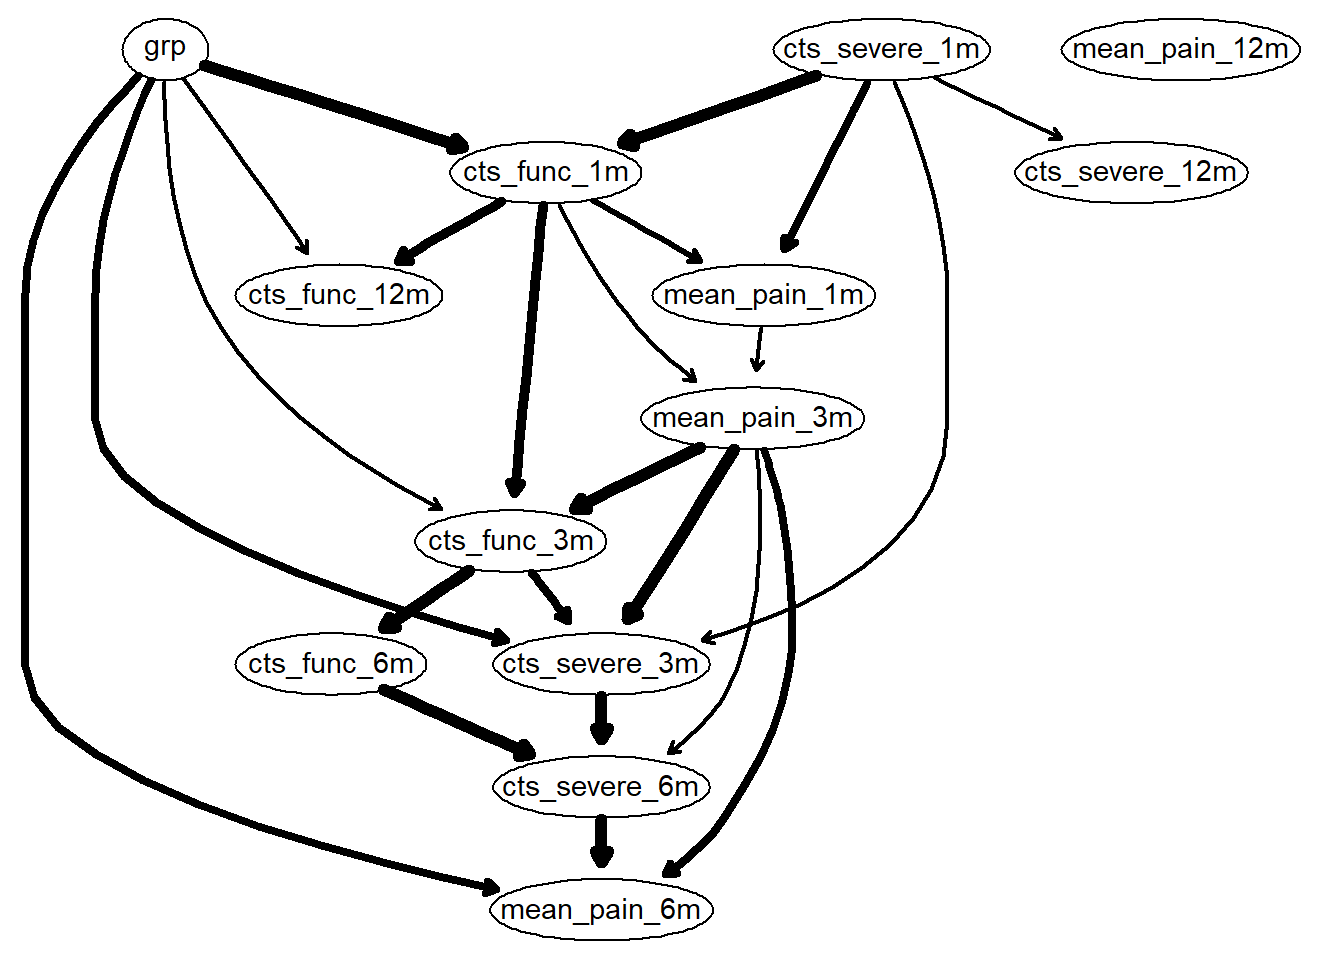
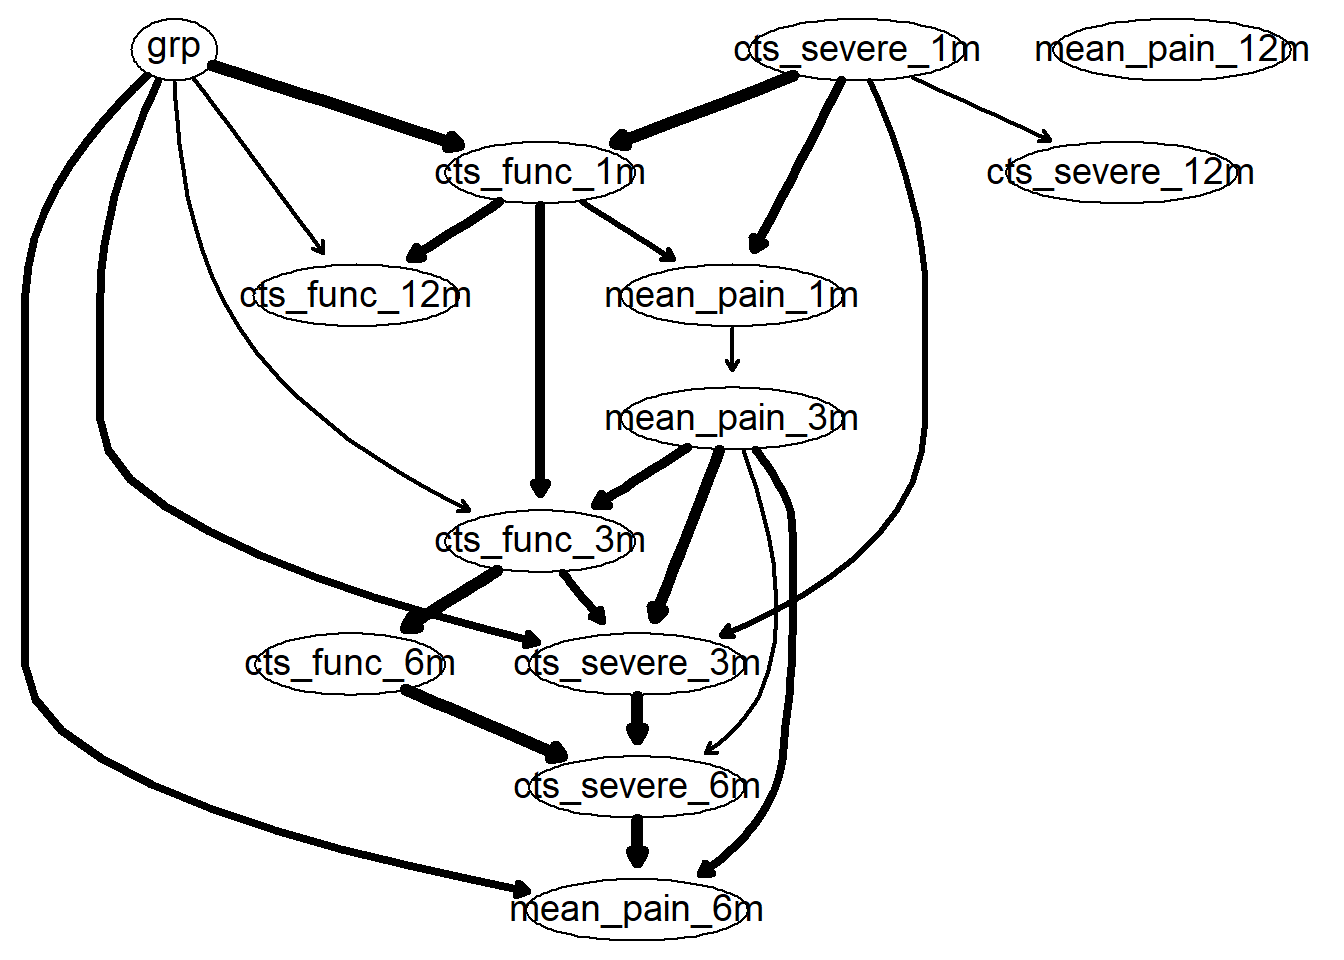
Build site.

diff --git a/docs/2-bn_analysis.html b/docs/2-bn_analysis.html
@@ -405,7 +405,7 @@ div.tocify {
 <div class="tab-content">
 <div id="summary" class="tab-pane fade in active">
 <p>
-<strong>Last updated:</strong> 2020-10-26
+<strong>Last updated:</strong> 2020-11-23
 </p>
 <p>
 <strong>Checks:</strong> <span class="glyphicon glyphicon-ok text-success" aria-hidden="true"></span> 7 <span class="glyphicon glyphicon-exclamation-sign text-danger" aria-hidden="true"></span> 0
@@ -496,16 +496,16 @@ This reproducible <a href="http://rmarkdown.rstudio.com">R Markdown</a> analysis
 <div class="panel panel-default">
 <div class="panel-heading">
 <p class="panel-title">
-<a data-toggle="collapse" data-parent="#workflowr-checks" href="#strongRepositoryversionstrongahrefhttpsgithubcombernardliew2020ctsbntreefe17d91bd35857ea56432f9212ddaa0c3512d9bbtargetblankfe17d91a"> <span class="glyphicon glyphicon-ok text-success" aria-hidden="true"></span> <strong>Repository version:</strong> <a href="https://github.com/bernard-liew/2020_cts_bn/tree/fe17d91bd35857ea56432f9212ddaa0c3512d9bb" target="_blank">fe17d91</a> </a>
+<a data-toggle="collapse" data-parent="#workflowr-checks" href="#strongRepositoryversionstrongahrefhttpsgithubcombernardliew2020ctsbntree2266d36d7d5eafec7453ccb12ce7d6471a15e6cftargetblank2266d36a"> <span class="glyphicon glyphicon-ok text-success" aria-hidden="true"></span> <strong>Repository version:</strong> <a href="https://github.com/bernard-liew/2020_cts_bn/tree/2266d36d7d5eafec7453ccb12ce7d6471a15e6cf" target="_blank">2266d36</a> </a>
 </p>
 </div>
[2 lines of base64/hex data omitted]
 <div class="panel-body">
 <p>
 Great! You are using Git for version control. Tracking code development and connecting the code version to the results is critical for reproducibility.
 </p>
 <p>
-The results in this page were generated with repository version <a href="https://github.com/bernard-liew/2020_cts_bn/tree/fe17d91bd35857ea56432f9212ddaa0c3512d9bb" target="_blank">fe17d91</a>. See the <em>Past versions</em> tab to see a history of the changes made to the R Markdown and HTML files.
+The results in this page were generated with repository version <a href="https://github.com/bernard-liew/2020_cts_bn/tree/2266d36d7d5eafec7453ccb12ce7d6471a15e6cf" target="_blank">2266d36</a>. See the <em>Past versions</em> tab to see a history of the changes made to the R Markdown and HTML files.
 </p>
 <p>
 Note that you need to be careful to ensure that all relevant files for the analysis have been committed to Git prior to generating the results (you can use <code>wflow_publish</code> or <code>wflow_git_commit</code>). workflowr only checks the R Markdown file, but you know if there are other scripts or data files that it depends on. Below is the status of the Git repository when the results were generated:
@@ -514,21 +514,6 @@ Note that you need to be careful to ensure that all relevant files for the analy
 Ignored files:
     Ignored:    .Rhistory
     Ignored:    .Rproj.user/
-
-Untracked files:
-    Untracked:  analysis/3-report.Rmd
-    Untracked:  data/cts_dat.sav
-    Untracked:  data/cts_dat.xlsx
-    Untracked:  data/cts_dat2.sav
-    Untracked:  data/cts_dat_mod.xlsx
-    Untracked:  output/dat.RDS
-    Untracked:  output/report.html
-
-Unstaged changes:
-    Deleted:    .Rprofile
-    Deleted:    .gitattributes
-    Modified:   .gitignore
-    Modified:   analysis/index.Rmd
 
 </code></pre>
 <p>
@@ -567,6 +552,40 @@ Message
 </tr>
 </thead>
 <tbody>
+<tr>
+<td>
+Rmd
+</td>
+<td>
+<a href="https://github.com/bernard-liew/2020_cts_bn/blob/2266d36d7d5eafec7453ccb12ce7d6471a15e6cf/analysis/2-bn_analysis.Rmd" target="_blank">2266d36</a>
+</td>
+<td>
+bernard-liew
+</td>
+<td>
+2020-11-23
+</td>
+<td>
+added explanation to graphs
+</td>
+</tr>
+<tr>
+<td>
+html
+</td>
+<td>
+<a href="https://rawcdn.githack.com/bernard-liew/2020_cts_bn/a6948cef9bf5a83d69fa576e28eb925bf6f8d32f/docs/2-bn_analysis.html" target="_blank">a6948ce</a>
+</td>
+<td>
+bernard-liew
+</td>
+<td>
+2020-10-26
+</td>
+<td>
+initial analysis
+</td>
+</tr>
 <tr>
 <td>
 Rmd
@@ -670,94 +689,83 @@ bl &lt;- anti_join(pair_var, tiers_keep, by = &quot;rowname&quot;)  %&gt;%
 </div>
 <div id="build-the-final-model-using-model-averaging" class="section level4">
 <h4>Build the final model using model averaging</h4>
-<pre class="r"><code>boot &lt;- boot.strength(df.bn,
+<pre class="r"><code>set.seed (123)
+boot &lt;- boot.strength(df.bn,
                       R = 200,
                       algorithm = &quot;hc&quot;,
                       algorithm.args = list (blacklist = bl))</code></pre>
 </div>
 <div id="get-averaged-model" class="section level4">
 <h4>Get averaged model</h4>
+<p>“Underneath” the model is a complex mathematical relationship between each variables.The figure is meant to illustrate a complex model simply. Interpretation of a Bayesian Network model should be natural, the arrows reflect the direction of relationship. Example, <code>grp</code> influences <code>cts_func_12m</code> partly by <code>cts_func_1m</code> and partly directly. The thickness of the arrows reflect how common one would expect to find such a relationship should many separate experiments be collected. Whether the arrows reflect causal relationships really depend if we think these variables represent an exhaustive list of plausible biological causes. In this case, I do not think we can say it is causal, but we can certainly understand a complex relationship driving recovery.</p>
 <pre class="r"><code>avg &lt;-  averaged.network(boot, threshold = 0.5)
 fit &lt;-  bn.fit (avg, df.bn, method = &quot;mle&quot;)
-g &lt;- strength.plot(avg, boot, shape = &quot;ellipse&quot;)</code></pre>
-<p><img src="figure/2-bn_analysis.Rmd/unnamed-chunk-6-1.png" width="672" style="display: block; margin: auto;" /></p>
-<pre class="r"><code>graph::nodeRenderInfo(g) = list(fontsize=18)
+g &lt;- strength.plot(avg, boot, shape = &quot;ellipse&quot;, render = FALSE)
+graph::nodeRenderInfo(g) = list(fontsize=18)
 Rgraphviz::renderGraph(g)</code></pre>
-<p><img src="figure/2-bn_analysis.Rmd/unnamed-chunk-6-2.png" width="672" style="display: block; margin: auto;" /></p>
+<p><img src="figure/2-bn_analysis.Rmd/unnamed-chunk-6-1.png" width="672" style="display: block; margin: auto;" /></p>
 </div>
 <div id="performance-evaluation-using-nested-cross-validation." class="section level4">
 <h4>Performance evaluation using nested cross validation.</h4>
 <p>Not run yet.</p>
 <p>Inner is bootstrap resampling for model averaging. Outer is bootstrap resampling k = 25 for performance evaluation.</p>
-<pre class="r"><code>set.seed (2564)
+<pre><code>Warning in check.data(data, allow.levels = TRUE, allow.missing = TRUE,
+warn.if.no.missing = TRUE): no missing data are present even though some are
+expected.
 
-flds &lt;- createFolds(1:nrow(df.bn), 
-                            k = 10, returnTrain = TRUE)
-n_boot = 200
-doParallel::registerDoParallel(7)
+Warning in check.data(data, allow.levels = TRUE, allow.missing = TRUE,
+warn.if.no.missing = TRUE): no missing data are present even though some are
+expected.
 
-corr.df.list &lt;- list()
+Warning in check.data(data, allow.levels = TRUE, allow.missing = TRUE,
+warn.if.no.missing = TRUE): no missing data are present even though some are
+expected.
 
-for (k in seq_along(flds)) {
-  
-  train &lt;-  df.bn [flds[[k]], ] %&gt;% as.data.frame()
-  test &lt;- df.bn [-flds[[k]], ] %&gt;% as.data.frame()
-  
-  doParallel::registerDoParallel(7)
-  ############
-  
-  boot  =  foreach (B = 1: n_boot) %dopar%{
-      boot.sample = train[sample(nrow(train), 
-                                            nrow(train), replace = TRUE), ]
-      bnlearn::structural.em(boot.sample, impute = &quot;bayes-lw&quot;, max.iter = 5,
-                                maximize.args = list(blacklist = bl,  
-                                                      k = log(nrow(boot.sample))))
-  }
-  #############
-  stopImplicitCluster()
-  
-  bootstr &lt;-  custom.strength(boot, nodes = names(train))
-  avg &lt;-  averaged.network(bootstr, threshold = 0.7)
-  fit &lt;-  bn.fit (avg, train, method = &quot;mle&quot;)
-  
-  imp.list = impute (fit, data = test, method = &quot;bayes-lw&quot;)
-  inames = names (imp.list) [-c(1:2)]
-  corr.df =  structure(numeric(length (inames)), names = inames)
-  
-  for (var in inames) {
-      corr.df[var] = cor(predict(fit, data = imp.list, var, method = &quot;bayes-lw&quot;), 
-                         imp.list[, var])
-    }
-  
-  corr.df.list[[k]] &lt;- corr.df
-  
+Warning in check.data(data, allow.levels = TRUE, allow.missing = TRUE,
+warn.if.no.missing = TRUE): no missing data are present even though some are
+expected.
 
-}
+Warning in check.data(data, allow.levels = TRUE, allow.missing = TRUE,
+warn.if.no.missing = TRUE): no missing data are present even though some are
+expected.
 
-corr.df &lt;- bind_cols (corr.df.list) %&gt;%
-  apply (1, mean)
+Warning in check.data(data, allow.levels = TRUE, allow.missing = TRUE,
+warn.if.no.missing = TRUE): no missing data are present even though some are
+expected.
 
-names (corr.df) &lt;- inames
+Warning in check.data(data, allow.levels = TRUE, allow.missing = TRUE,
+warn.if.no.missing = TRUE): no missing data are present even though some are
+expected.
 
-corr.df</code></pre>
+Warning in check.data(data, allow.levels = TRUE, allow.missing = TRUE,
+warn.if.no.missing = TRUE): no missing data are present even though some are
+expected.
+
+Warning in check.data(data, allow.levels = TRUE, allow.missing = TRUE,
+warn.if.no.missing = TRUE): no missing data are present even though some are
+expected.
+
+Warning in check.data(data, allow.levels = TRUE, allow.missing = TRUE,
+warn.if.no.missing = TRUE): no missing data are present even though some are
+expected.</code></pre>
+<pre><code>New names:
+* NA -&gt; ...1
+* NA -&gt; ...2
+* NA -&gt; ...3
+* NA -&gt; ...4
+* NA -&gt; ...5
+* ...</code></pre>
+<pre><code>   cts_func_1m  cts_severe_1m   mean_pain_3m    cts_func_3m  cts_severe_3m 
+   0.746507217    0.213453855    0.688864041    0.759489264    0.730701535 
+  mean_pain_6m    cts_func_6m  cts_severe_6m  mean_pain_12m   cts_func_12m 
+   0.590325932    0.805223031    0.783927409   -0.006836802    0.157076614 
+cts_severe_12m 
+  -0.177712188 </code></pre>
 </div>
 </div>
 </div>
 <div id="save-data" class="section level1">
 <h1>Save data</h1>
-<pre class="r"><code>save(avg, 
-     bl, 
-     demo.var,
-     mth3.var,
-     mth6.var,
-     outcome.var,
-     boot, 
-     bootstr, 
-     corr.df, 
-     corr.df.list, 
-     df.bn, 
-     fit,
-     file = &quot;output/bn_data.RData&quot;)</code></pre>
 <br>
 <p>
 <button type="button" class="btn btn-default btn-workflowr btn-workflowr-sessioninfo" data-toggle="collapse" data-target="#workflowr-sessioninfo" style="display: block;">
@@ -768,7 +776,7 @@ corr.df</code></pre>
 <pre class="r"><code>sessionInfo()</code></pre>
 <pre><code>R version 3.6.0 (2019-04-26)
 Platform: x86_64-w64-mingw32/x64 (64-bit)
-Running under: Windows 10 x64 (build 18362)
+Running under: Windows 10 x64 (build 18363)
 
 Matrix products: default
 

diff --git a/docs/3-network.html b/docs/3-network.html
@@ -405,7 +405,7 @@ div.tocify {
 <div class="tab-content">
 <div id="summary" class="tab-pane fade in active">
 <p>
-<strong>Last updated:</strong> 2020-10-26
+<strong>Last updated:</strong> 2020-11-23
 </p>
 <p>
 <strong>Checks:</strong> <span class="glyphicon glyphicon-ok text-success" aria-hidden="true"></span> 7 <span class="glyphicon glyphicon-exclamation-sign text-danger" aria-hidden="true"></span> 0
@@ -496,16 +496,16 @@ This reproducible <a href="http://rmarkdown.rstudio.com">R Markdown</a> analysis
 <div class="panel panel-default">
 <div class="panel-heading">
 <p class="panel-title">
-<a data-toggle="collapse" data-parent="#workflowr-checks" href="#strongRepositoryversionstrongahrefhttpsgithubcombernardliew2020ctsbntree89af6df1115f4934171798684524ef78c51c8c68targetblank89af6dfa"> <span class="glyphicon glyphicon-ok text-success" aria-hidden="true"></span> <strong>Repository version:</strong> <a href="https://github.com/bernard-liew/2020_cts_bn/tree/89af6df1115f4934171798684524ef78c51c8c68" target="_blank">89af6df</a> </a>
+<a data-toggle="collapse" data-parent="#workflowr-checks" href="#strongRepositoryversionstrongahrefhttpsgithubcombernardliew2020ctsbntree2266d36d7d5eafec7453ccb12ce7d6471a15e6cftargetblank2266d36a"> <span class="glyphicon glyphicon-ok text-success" aria-hidden="true"></span> <strong>Repository version:</strong> <a href="https://github.com/bernard-liew/2020_cts_bn/tree/2266d36d7d5eafec7453ccb12ce7d6471a15e6cf" target="_blank">2266d36</a> </a>
 </p>
 </div>
[2 lines of base64/hex data omitted]
 <div class="panel-body">
 <p>
 Great! You are using Git for version control. Tracking code development and connecting the code version to the results is critical for reproducibility.
 </p>
 <p>
-The results in this page were generated with repository version <a href="https://github.com/bernard-liew/2020_cts_bn/tree/89af6df1115f4934171798684524ef78c51c8c68" target="_blank">89af6df</a>. See the <em>Past versions</em> tab to see a history of the changes made to the R Markdown and HTML files.
+The results in this page were generated with repository version <a href="https://github.com/bernard-liew/2020_cts_bn/tree/2266d36d7d5eafec7453ccb12ce7d6471a15e6cf" target="_blank">2266d36</a>. See the <em>Past versions</em> tab to see a history of the changes made to the R Markdown and HTML files.
 </p>
 <p>
 Note that you need to be careful to ensure that all relevant files for the analysis have been committed to Git prior to generating the results (you can use <code>wflow_publish</code> or <code>wflow_git_commit</code>). workflowr only checks the R Markdown file, but you know if there are other scripts or data files that it depends on. Below is the status of the Git repository when the results were generated:
@@ -514,21 +514,9 @@ Note that you need to be careful to ensure that all relevant files for the analy
 Ignored files:
     Ignored:    .Rhistory
     Ignored:    .Rproj.user/
-    Ignored:    analysis/figure/
 
 Untracked files:
-    Untracked:  analysis/3-report.Rmd
-    Untracked:  data/cts_dat.sav
-    Untracked:  data/cts_dat.xlsx
-    Untracked:  data/cts_dat2.sav
-    Untracked:  data/cts_dat_mod.xlsx
-    Untracked:  output/dat.RDS
-    Untracked:  output/report.html
-
-Unstaged changes:
-    Deleted:    .Rprofile
-    Deleted:    .gitattributes
-    Modified:   .gitignore
+    Untracked:  output/bn_data.RData
 
 </code></pre>
 <p>
@@ -567,6 +555,40 @@ Message
 </tr>
 </thead>
 <tbody>
+<tr>
+<td>
+Rmd
+</td>
+<td>
+<a href="https://github.com/bernard-liew/2020_cts_bn/blob/2266d36d7d5eafec7453ccb12ce7d6471a15e6cf/analysis/3-network.Rmd" target="_blank">2266d36</a>
+</td>
+<td>
+bernard-liew
+</td>
+<td>
+2020-11-23
+</td>
+<td>
+added explanation to graphs
+</td>
+</tr>
+<tr>
+<td>
+html
+</td>
+<td>
+<a href="https://rawcdn.githack.com/bernard-liew/2020_cts_bn/a6948cef9bf5a83d69fa576e28eb925bf6f8d32f/docs/3-network.html" target="_blank">a6948ce</a>
+</td>
+<td>
+bernard-liew
+</td>
+<td>
+2020-10-26
+</td>
+<td>
+initial analysis
+</td>
+</tr>
 <tr>
 <td>
 Rmd
@@ -847,13 +869,21 @@ higher specificity, at the cost of sensitivity.</code></pre>
 # pred &lt;-  predict(mgm_fit, df)</code></pre>
 <div id="plot-network" class="section level4">
 <h4>Plot network</h4>
+<p>Arcs in blue means a positive correlation between connecting variables.</p>
+<p>Arcs in red means a netative correlation between connecting variables.</p>
+<p>Thickness of arcs gives you a qualitative indication of correlation magnitude.</p>
 <pre class="r"><code>plot (nw)</code></pre>
 <p><img src="figure/3-network.Rmd/unnamed-chunk-7-1.png" width="672" style="display: block; margin: auto;" /></p>
 </div>
 <div id="plot-centrality" class="section level4">
 <h4>Plot centrality</h4>
-<pre class="r"><code>centralityPlot(nw)</code></pre>
-<pre><code>Note: z-scores are shown on x-axis rather than raw centrality indices.</code></pre>
+<p>Degree centrality is defined as the number of connections incident to the node of interest.</p>
+<p>Degree can be straightforwardly generalized to weighted networks by considering the sum of the weights of the connections (in absolute value), instead of their number. This generalization is called strength.</p>
+<p>Closeness centrality is defined as the inverse of the sum of the distances of the focal node from all the other nodes in the network.</p>
+<p>Betweenness centrality is defined as the number of the geodesics between any two nodes that pass through the focal one.</p>
+<p>The greater the value of centrality indices to one, the more important the variable.</p>
+<pre class="r"><code>centralityPlot(nw, scale = &quot;relative&quot;)</code></pre>
+<pre><code>Note: relative centrality indices are shown on x-axis rather than raw centrality indices.</code></pre>
 <p><img src="figure/3-network.Rmd/unnamed-chunk-8-1.png" width="672" style="display: block; margin: auto;" /></p>
 <pre class="r"><code># plot (centr_stb, statistics = c(&quot;closeness&quot;, &quot;strength&quot;, &quot;betweenness&quot;))
 # cor_stb
@@ -915,13 +945,21 @@ nw &lt;- estimateNetwork(df,
 # pred &lt;-  predict(mgm_fit, df)</code></pre>
 <div id="plot-network-1" class="section level4">
 <h4>Plot network</h4>
+<p>Arcs in blue means a positive correlation between connecting variables.</p>
+<p>Arcs in red means a netative correlation between connecting variables.</p>
+<p>Thickness of arcs gives you a qualitative indication of correlation magnitude.</p>
 <pre class="r"><code>plot (nw)</code></pre>
 <p><img src="figure/3-network.Rmd/unnamed-chunk-10-1.png" width="672" style="display: block; margin: auto;" /></p>
 </div>
 <div id="plot-centrality-1" class="section level4">
 <h4>Plot centrality</h4>
-<pre class="r"><code>centralityPlot(nw)</code></pre>
-<pre><code>Note: z-scores are shown on x-axis rather than raw centrality indices.</code></pre>
+<p>Degree centrality is defined as the number of connections incident to the node of interest.</p>
+<p>Degree can be straightforwardly generalized to weighted networks by considering the sum of the weights of the connections (in absolute value), instead of their number. This generalization is called strength.</p>
+<p>Closeness centrality is defined as the inverse of the sum of the distances of the focal node from all the other nodes in the network.</p>
+<p>Betweenness centrality is defined as the number of the geodesics between any two nodes that pass through the focal one.</p>
+<p>The greater the value of centrality indices to one, the more important the variable.</p>
+<pre class="r"><code>centralityPlot(nw, scale = &quot;relative&quot;)</code></pre>
+<pre><code>Note: relative centrality indices are shown on x-axis rather than raw centrality indices.</code></pre>
 <p><img src="figure/3-network.Rmd/unnamed-chunk-11-1.png" width="672" style="display: block; margin: auto;" /></p>
 <pre class="r"><code># plot (centr_stb, statistics = c(&quot;closeness&quot;, &quot;strength&quot;, &quot;betweenness&quot;))
 # cor_stb
@@ -937,7 +975,7 @@ nw &lt;- estimateNetwork(df,
 <pre class="r"><code>sessionInfo()</code></pre>
 <pre><code>R version 3.6.0 (2019-04-26)
 Platform: x86_64-w64-mingw32/x64 (64-bit)
-Running under: Windows 10 x64 (build 18362)
+Running under: Windows 10 x64 (build 18363)
 
 Matrix products: default
 
